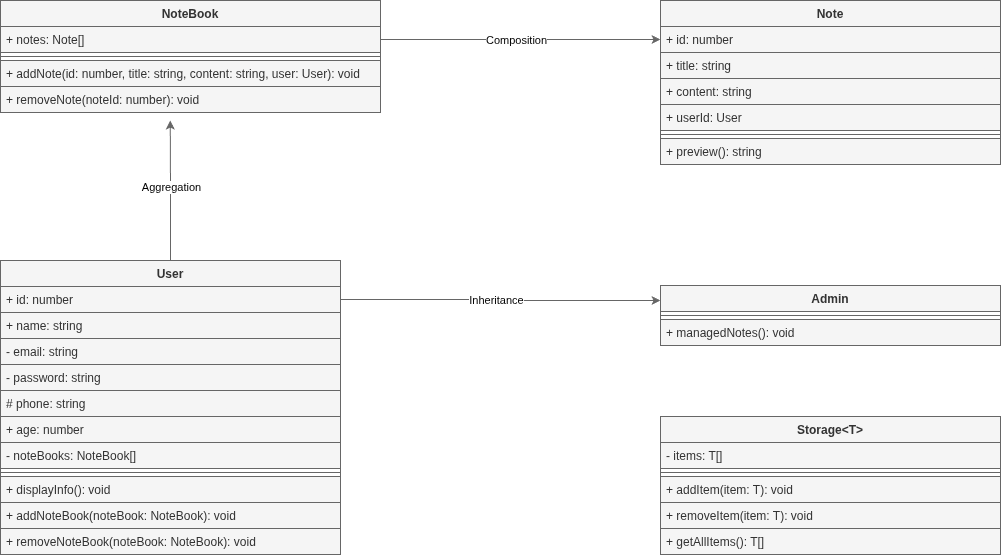
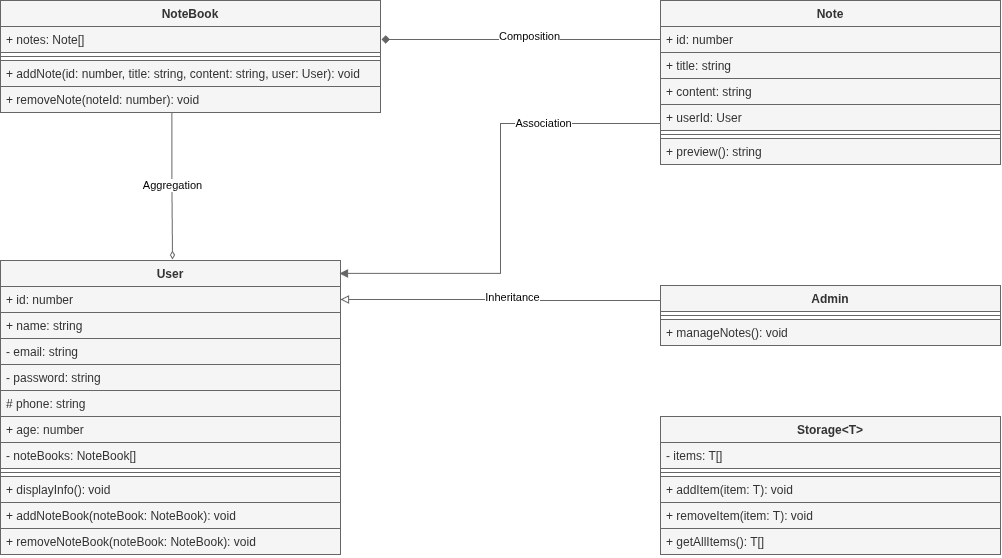
updated: index.ts and UML

diff --git a/src/index.ts b/src/index.ts
@@ -30,7 +30,7 @@ class User {
 
 //2
 class Admin extends User {
-  public managedNotes(): void{
+  public manageNotes(): void{
   console.log("managing notes");
   }
 }
@@ -82,6 +82,6 @@ class Storage<T> {
 
 //2 identify relationships
 //  1) Inheritance (Admin => User)
-//  2) Composition (Note => NoteBook)
-//  3) Aggregation (NoteBook => User)
-//  4) Association (User => Note)
+//  2) Composition (NoteBook => Note)
+//  3) Aggregation (User => NoteBook)
+//  4) Association (Note => User)
